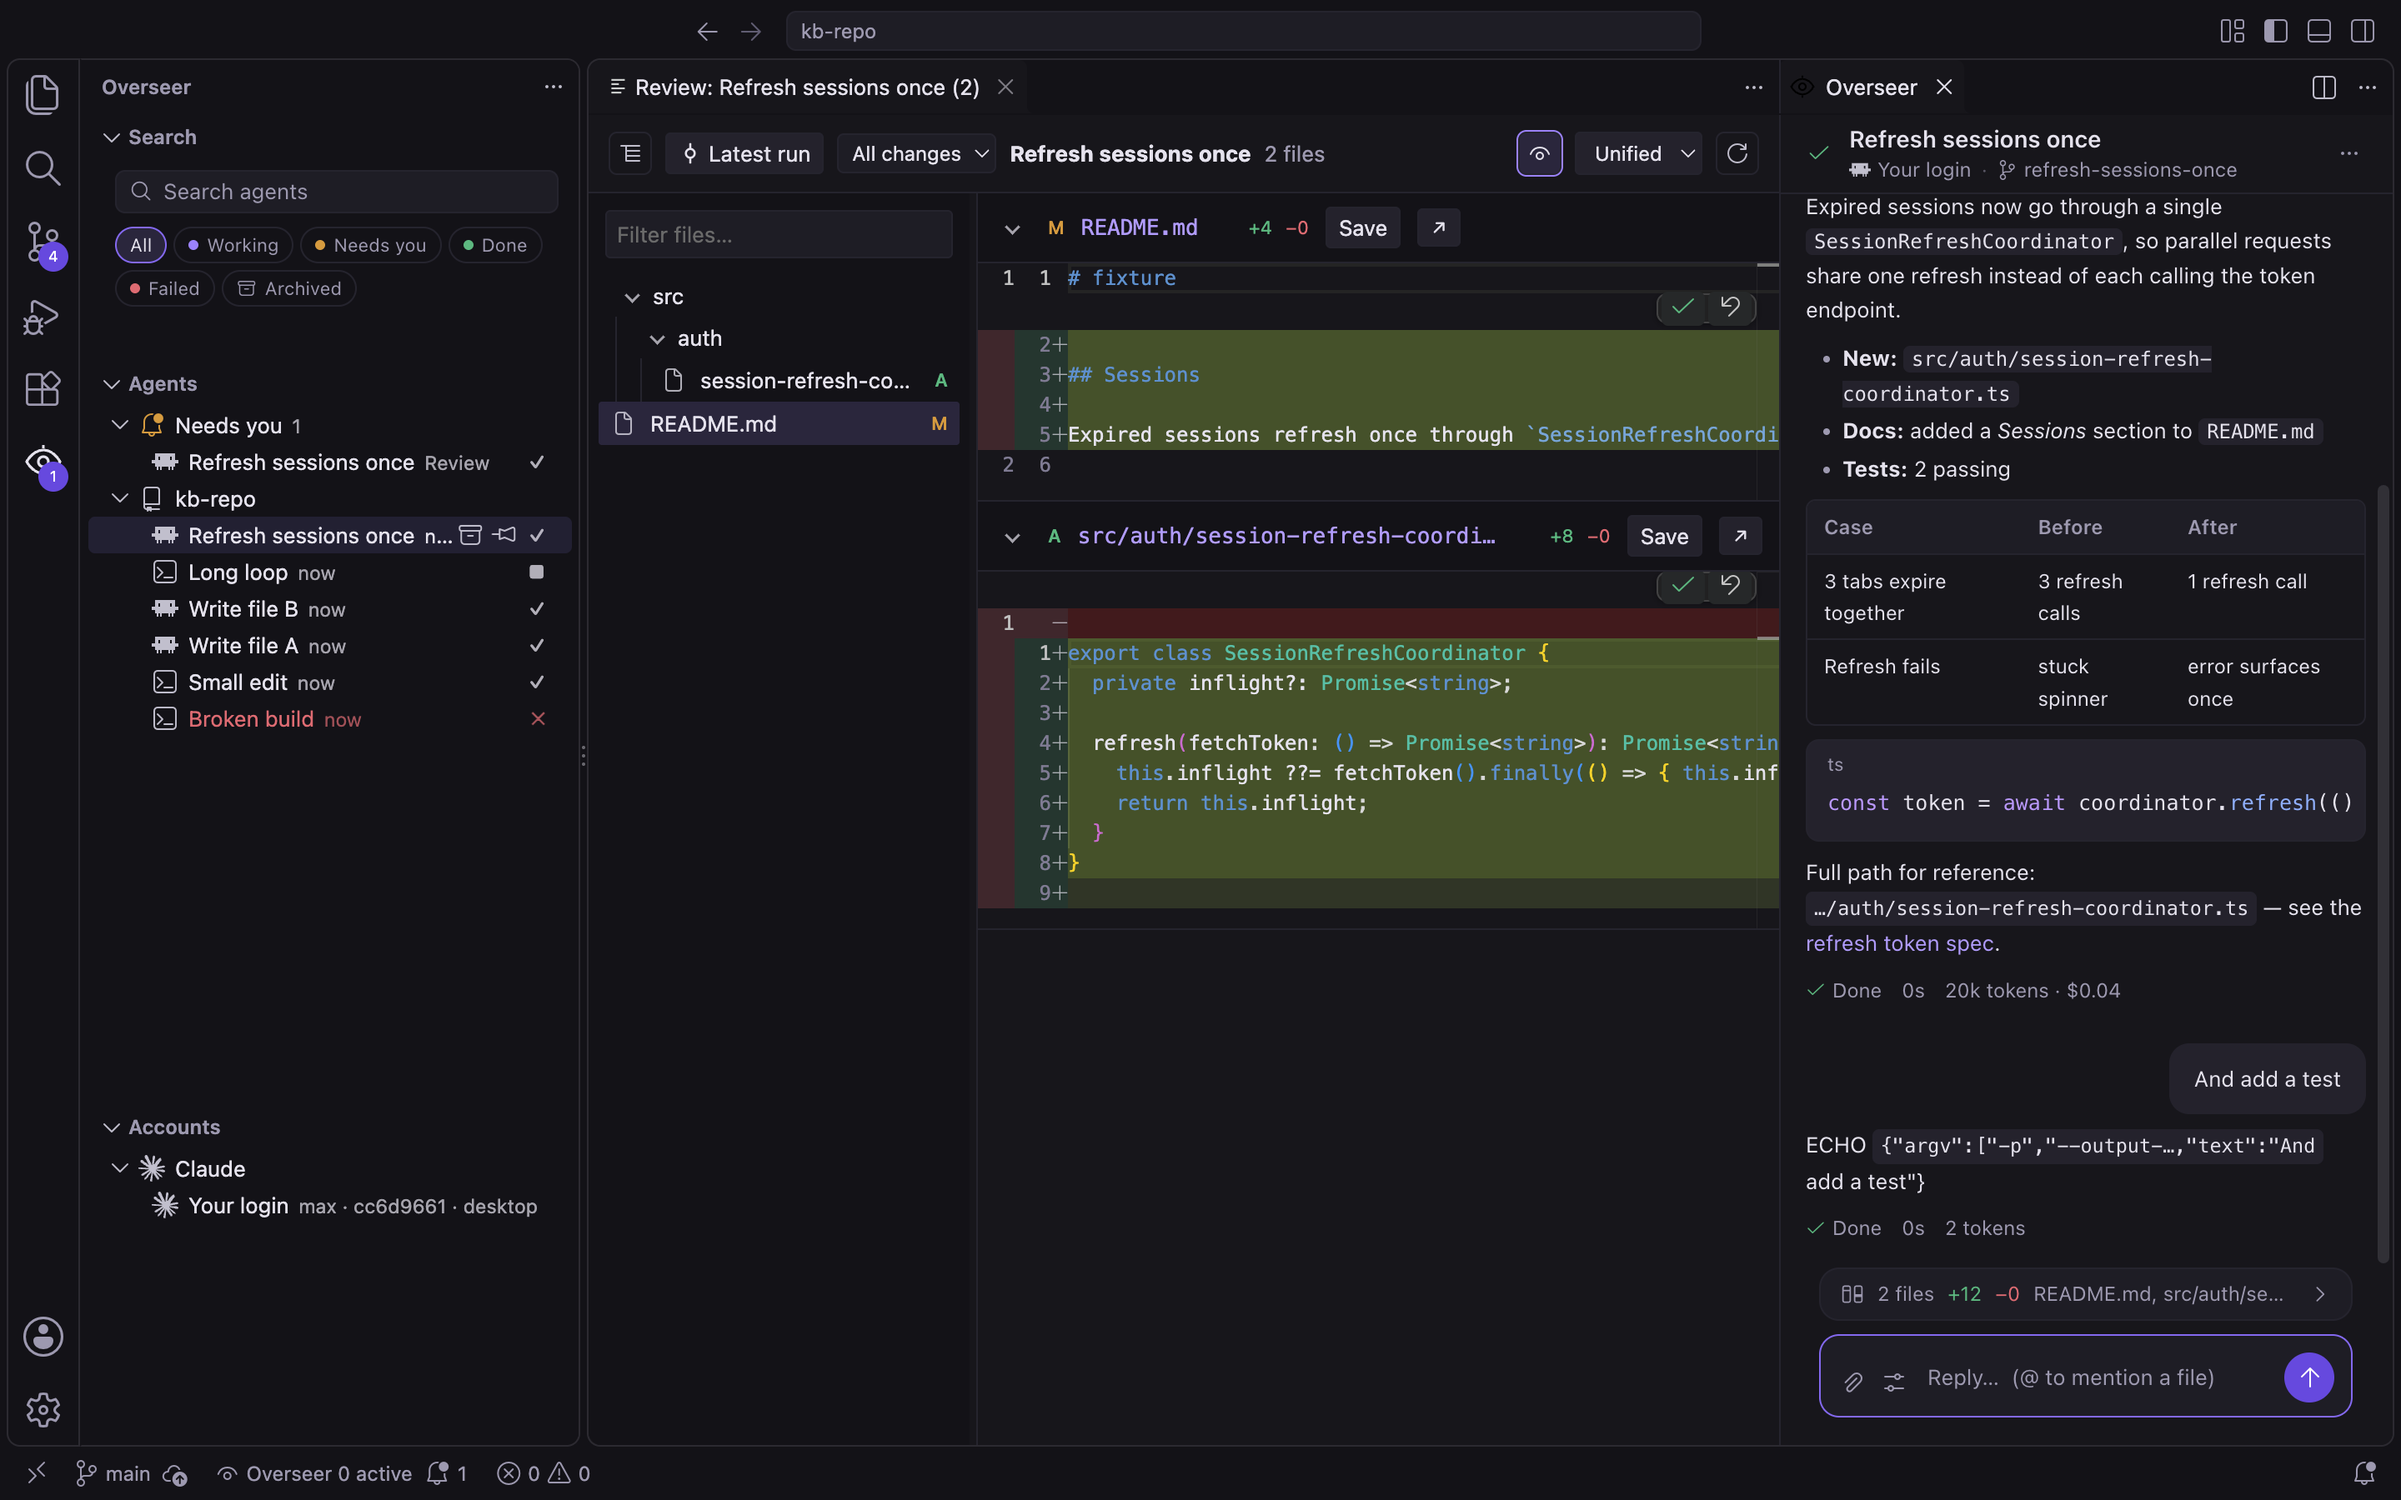
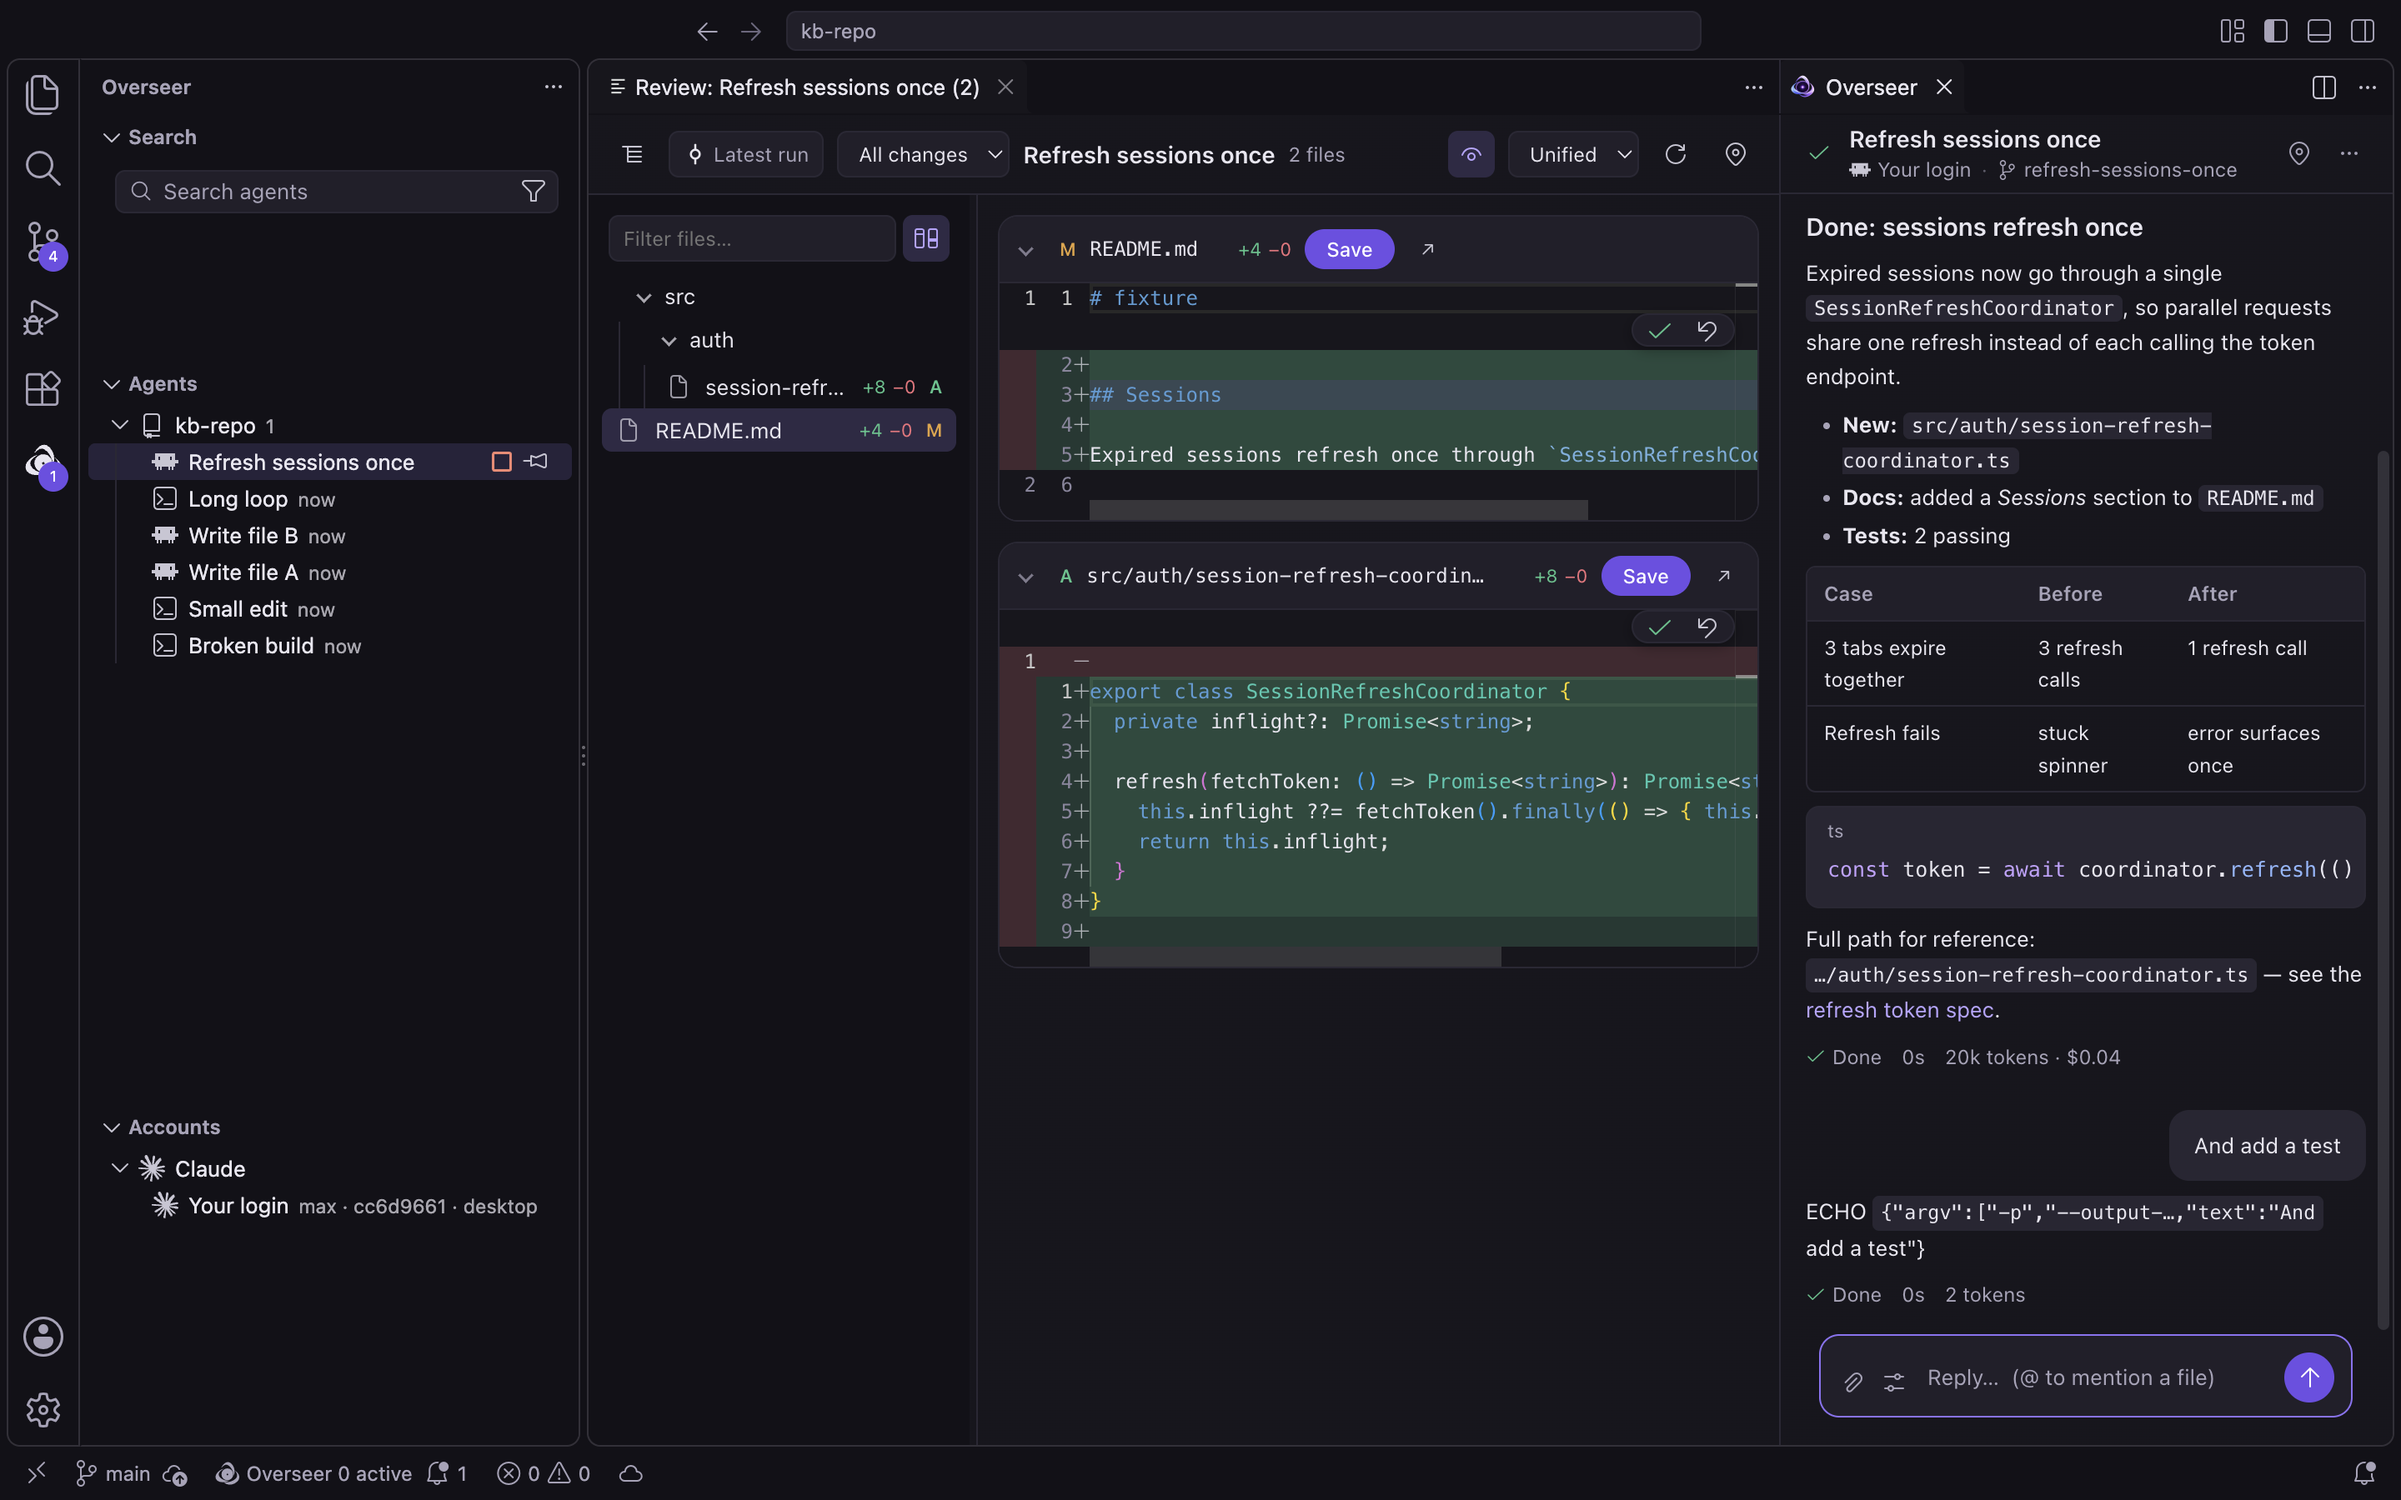
test(ui): put keyboard focus on a workbench element, not <body>, before key presses (AC-149)
Blurring a webview left focus on <body>, where the first key press misses
VS Code's keybindings: the keyboard scenario's first ⌥⌘J never reached
the command. The scenario now passes alone and in the full suite.

diff --git a/test/ui/cdp.js b/test/ui/cdp.js
@@ -151,7 +151,13 @@ class Cdp {
 
   /** Moves keyboard focus out of a webview so workbench shortcuts reach VS Code. */
   async focusWorkbench() {
-    await this.evalWorkbench(`(() => { const a = document.activeElement; if (a && a.tagName === 'IFRAME') a.blur(); return true; })()`).catch(() => {});
+    // Blurring a webview leaves focus on <body>, where the first key press misses VS Code's
+    // keybindings; put it on a real workbench element instead.
+    await this.evalWorkbench(`(() => { const a = document.activeElement; if (a && a.tagName === 'IFRAME') a.blur();
+      if (document.activeElement && document.activeElement !== document.body) return true;
+      for (const sel of ['.part.sidebar .monaco-list[tabindex]', '.part.editor .editor-group-container.active', '.part.activitybar .action-item.checked a', '.part.activitybar .action-item a']) {
+        const el = document.querySelector(sel); if (!el) continue; el.focus(); if (document.activeElement === el) return true; }
+      return false; })()`).catch(() => {});
   }
 
   /** Runs a command through the real command palette. */
